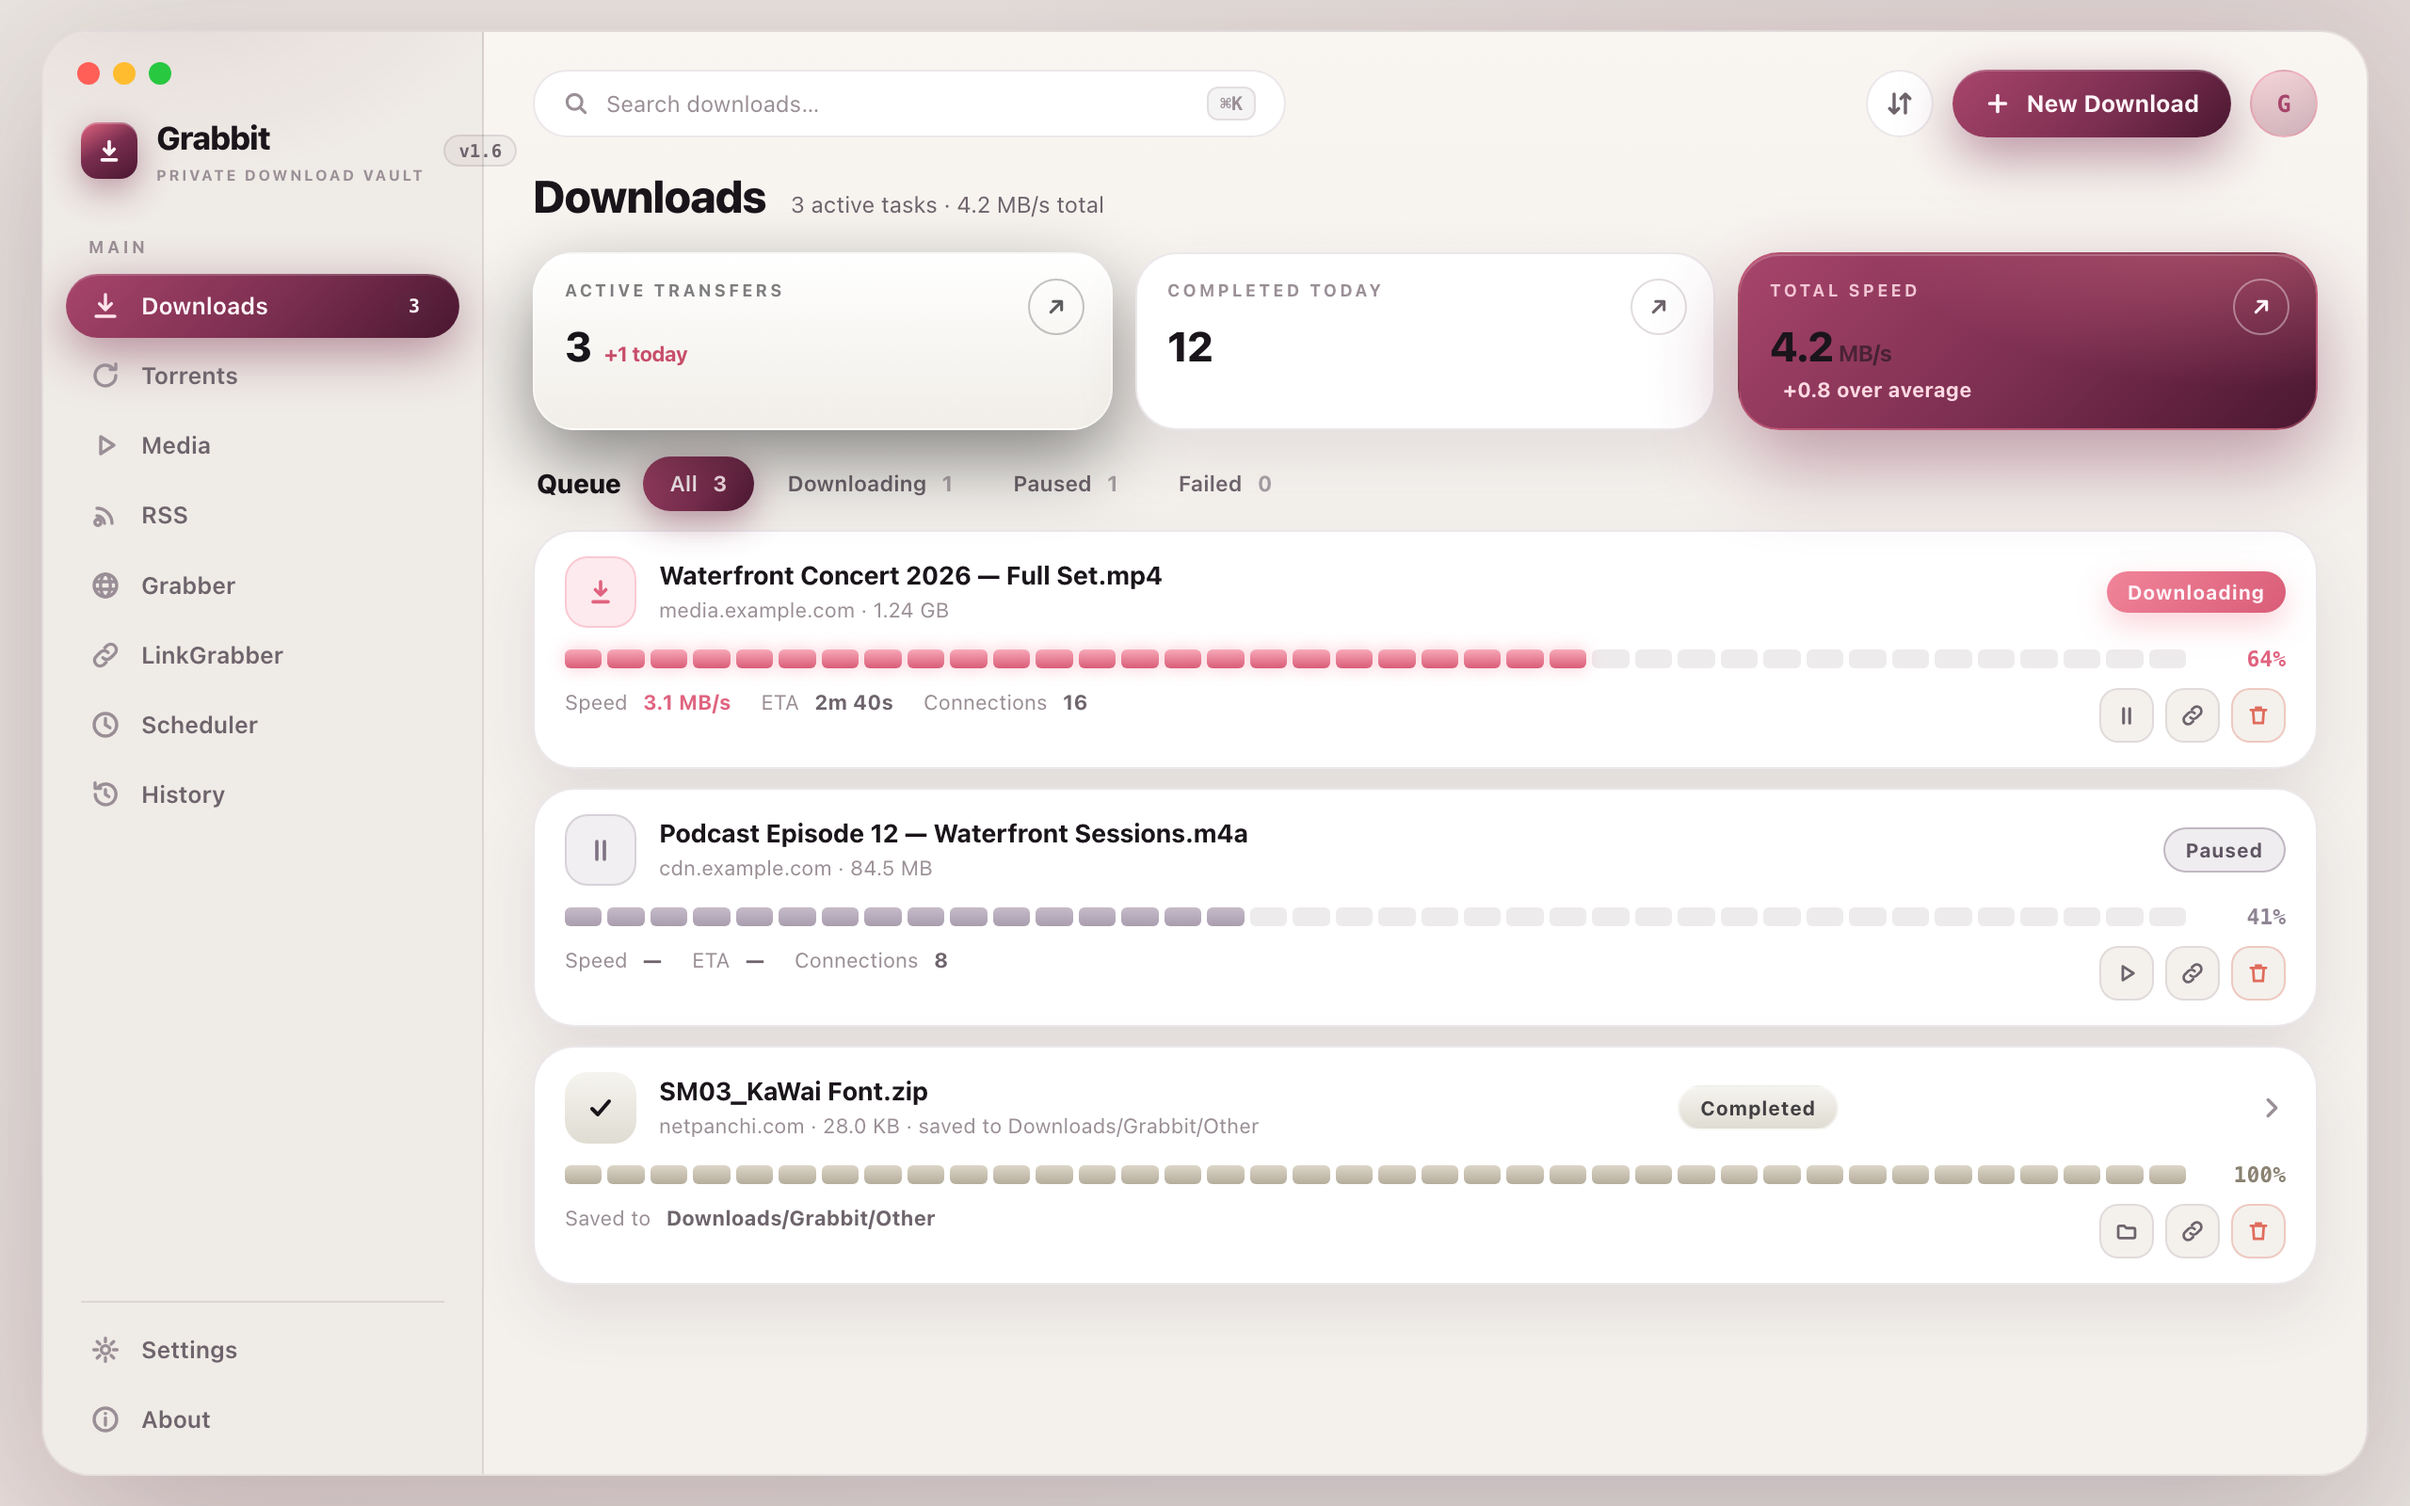
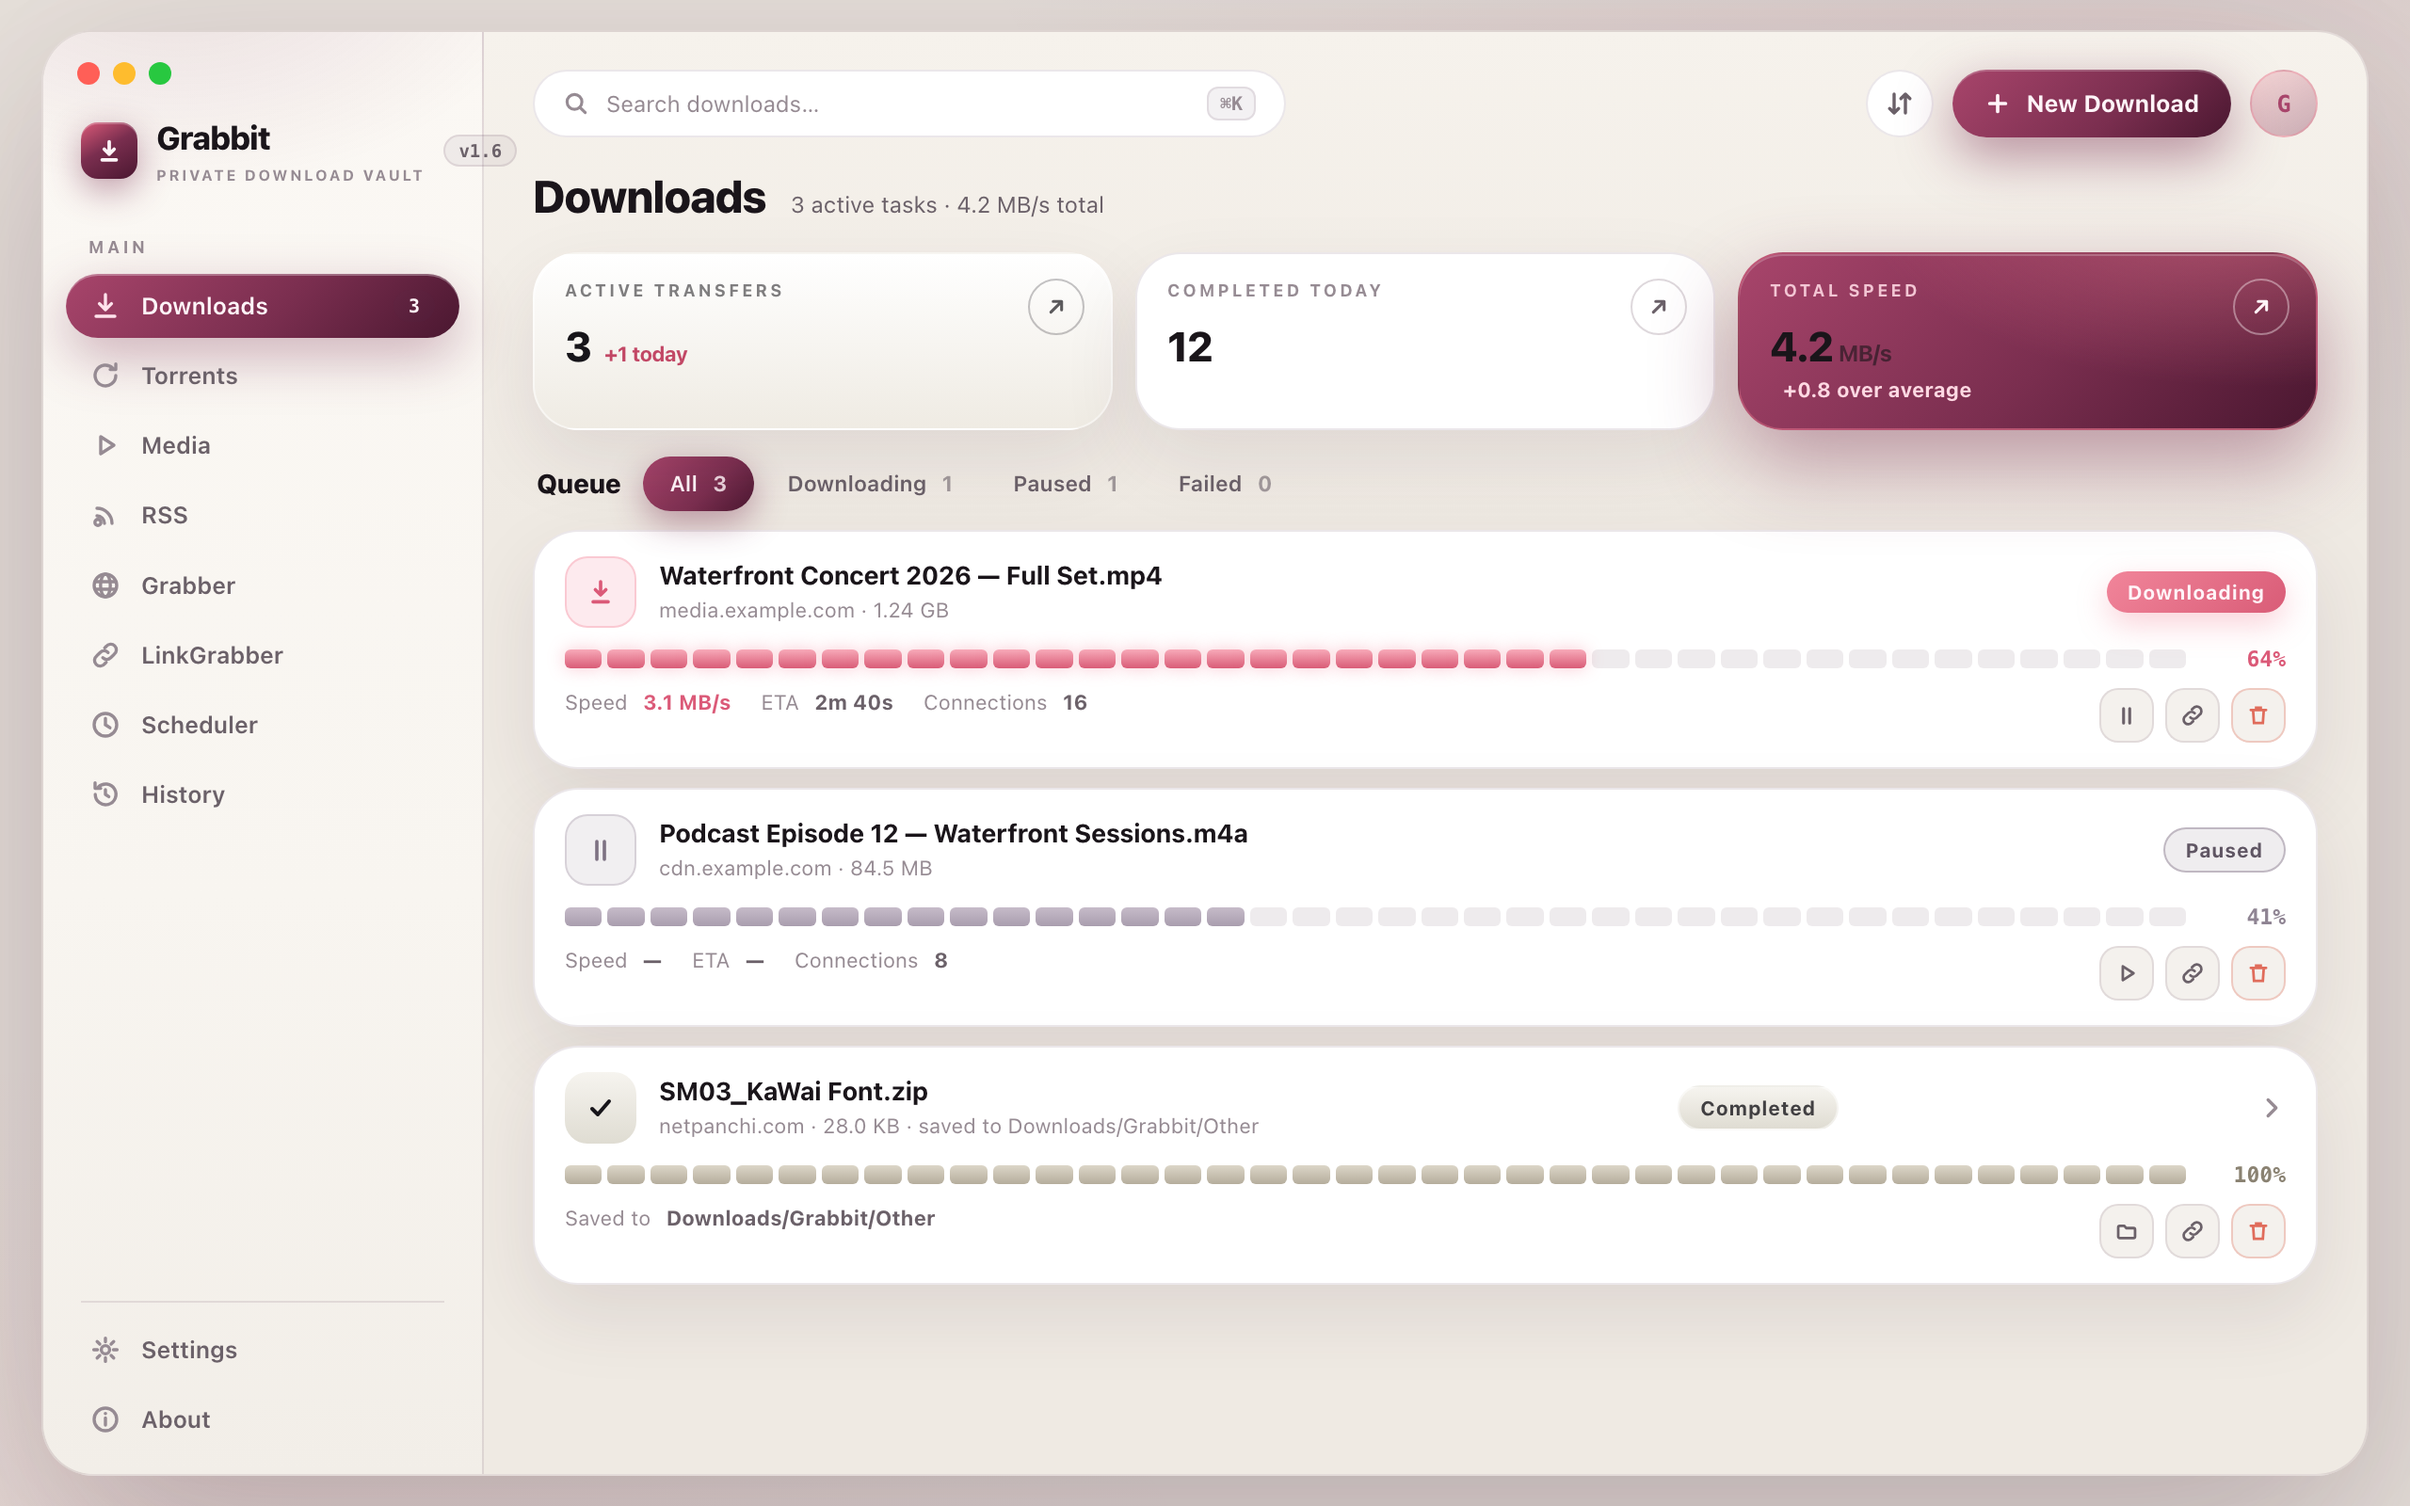
docs: polish Velvet light — silver sidebar panel, deeper coral, larger radii
Light variant refinement: canvas deepened to #EFEAE3 with a stronger
plum glow, the sidebar becomes a distinct lighter silver panel
(#F8F5F0, plum wash behind the brand, stronger active-pill glow), coral
deepened to #DB5A78, radii grow to 28/24, and cards get two-layer plum
shadows with a white inset sheen.

Changed region(s): [[0.0312, 0.2188, 0.4688, 0.3438]]

diff --git a/docs/theme-previews/velvet.html b/docs/theme-previews/velvet.html
@@ -36,33 +36,48 @@
 
   /* ---------- Light variant (add #light to the URL) ---------- */
   body.light {
-    --backdrop: #EAE6E1;
-    --canvas: #F4F1ED;
-    --sidebar: #EFEBE6;
+    --backdrop: #E7E2DC;
+    --canvas: #EFEAE3;
+    --sidebar: #F8F5F0;
     --glass: #FFFFFF;
     --line: rgba(90, 60, 80, .12);
-    --line-strong: rgba(90, 60, 80, .18);
+    --line-strong: rgba(90, 60, 80, .20);
     --text: #1A151A;
-    --text-2: #6E646C;
-    --text-3: #9A8F96;
-    --coral: #E0637F;
-    --coral-deep: #C74D6A;
+    --text-2: #6B6169;
+    --text-3: #968B93;
+    --coral: #DB5A78;
+    --coral-deep: #C24765;
     --mauve: #A99DAE;
     --champagne: #B5AD9C;
-    --shadow-card: 0 1px 0 rgba(255, 255, 255, .9) inset, 0 14px 34px rgba(70, 40, 60, .10);
-    --shadow-window: 0 40px 100px rgba(70, 40, 60, .22), 0 0 90px rgba(122, 46, 79, .08);
+    --shadow-card: 0 1px 2px rgba(70, 40, 60, .06), 0 16px 40px rgba(70, 40, 60, .10);
+    --shadow-window: 0 50px 110px rgba(70, 40, 60, .24), 0 0 90px rgba(122, 46, 79, .08);
     background:
-      radial-gradient(950px 540px at 88% -12%, rgba(122, 46, 79, .12), transparent 66%),
-      radial-gradient(900px 520px at 6% 112%, rgba(242, 126, 147, .07), transparent 65%),
+      radial-gradient(950px 540px at 88% -12%, rgba(122, 46, 79, .14), transparent 66%),
+      radial-gradient(900px 520px at 6% 112%, rgba(219, 90, 120, .08), transparent 65%),
       var(--backdrop);
   }
-  body.light .window { background: linear-gradient(180deg, #F9F6F2 0%, var(--canvas) 34%); }
+  body.light .window {
+    background: linear-gradient(180deg, #F6F2EC 0%, var(--canvas) 34%);
+    border-radius: 28px;
+  }
+  /* Silver sidebar panel: lighter than the canvas, plum wash behind the brand */
   body.light .sidebar {
     background:
-      radial-gradient(260px 170px at 30% -6%, rgba(122, 46, 79, .10), transparent 72%),
-      var(--sidebar);
+      radial-gradient(280px 180px at 30% -6%, rgba(122, 46, 79, .14), transparent 72%),
+      linear-gradient(180deg, #FBF8F4 0%, var(--sidebar) 60%, #F2EEE8 100%);
+    border-right: 1px solid rgba(90, 60, 80, .14);
   }
-  body.light .stat.silver { background: linear-gradient(180deg, #FFFFFF, #F1EEE8); }
+  body.light .stat, body.light .task { border-radius: 24px; }
+  body.light .stat.silver {
+    background: linear-gradient(180deg, #FFFFFF, #EFEBE3);
+    box-shadow: 0 1px 0 rgba(255, 255, 255, .95) inset, 0 16px 40px rgba(70, 40, 60, .10);
+  }
+  body.light .stat.glass, body.light .task {
+    box-shadow: 0 1px 0 rgba(255, 255, 255, .95) inset, 0 16px 40px rgba(70, 40, 60, .10);
+  }
+  body.light .nav a.active {
+    box-shadow: 0 10px 28px rgba(122, 46, 79, .35), 0 1px 0 rgba(255, 255, 255, .3) inset;
+  }
   body.light .segs i { background: rgba(90, 60, 80, .10); }
   body.light .segs.silver i.on { background: linear-gradient(180deg, #DCD6C8, #B5AD9C); box-shadow: none; }
   body.light .segs.mauve i.on { background: linear-gradient(180deg, #C6BBC9, #A99DAE); }
@@ -76,7 +91,7 @@
   body.light .iconbtn, body.light .search { background: #FFFFFF; }
   body.light .mini { background: #F4F1ED; }
   body.light .nav a .count, body.light .brand .ver, body.light .search .kbd {
-    background: rgba(90, 60, 80, .06);
+    background: rgba(90, 60, 80, .07);
   }
 
   * { box-sizing: border-box; margin: 0; padding: 0; }

diff --git a/docs/theme-previews/README.md b/docs/theme-previews/README.md
@@ -184,8 +184,10 @@ meters** (Vaulta portfolio-bar style: 38 segments, lit ones in a coral
 gradient with a soft glow; mauve for paused, champagne for completed),
 gradient coral status pills, and a silver completed row with a chevron.
 
-Light variant tokens: backdrop `#EAE6E1`, canvas `#F4F1ED`, white cards
-with soft plum shadows, ink `#1A151A`; plum and coral stay identical, and
+Light variant tokens: backdrop `#E7E2DC`, canvas `#EFEAE3`, a lighter
+silver sidebar panel (`#F8F5F0` with a plum wash behind the brand), white
+cards with two-layer plum shadows and a white inset sheen, ink `#1A151A`,
+coral deepened to `#DB5A78`; radii grow to 28 (window) / 24 (cards), and
 completed segments turn antique silver (`#DCD6C8 → #B5AD9C`) so they read
 on white.
 
